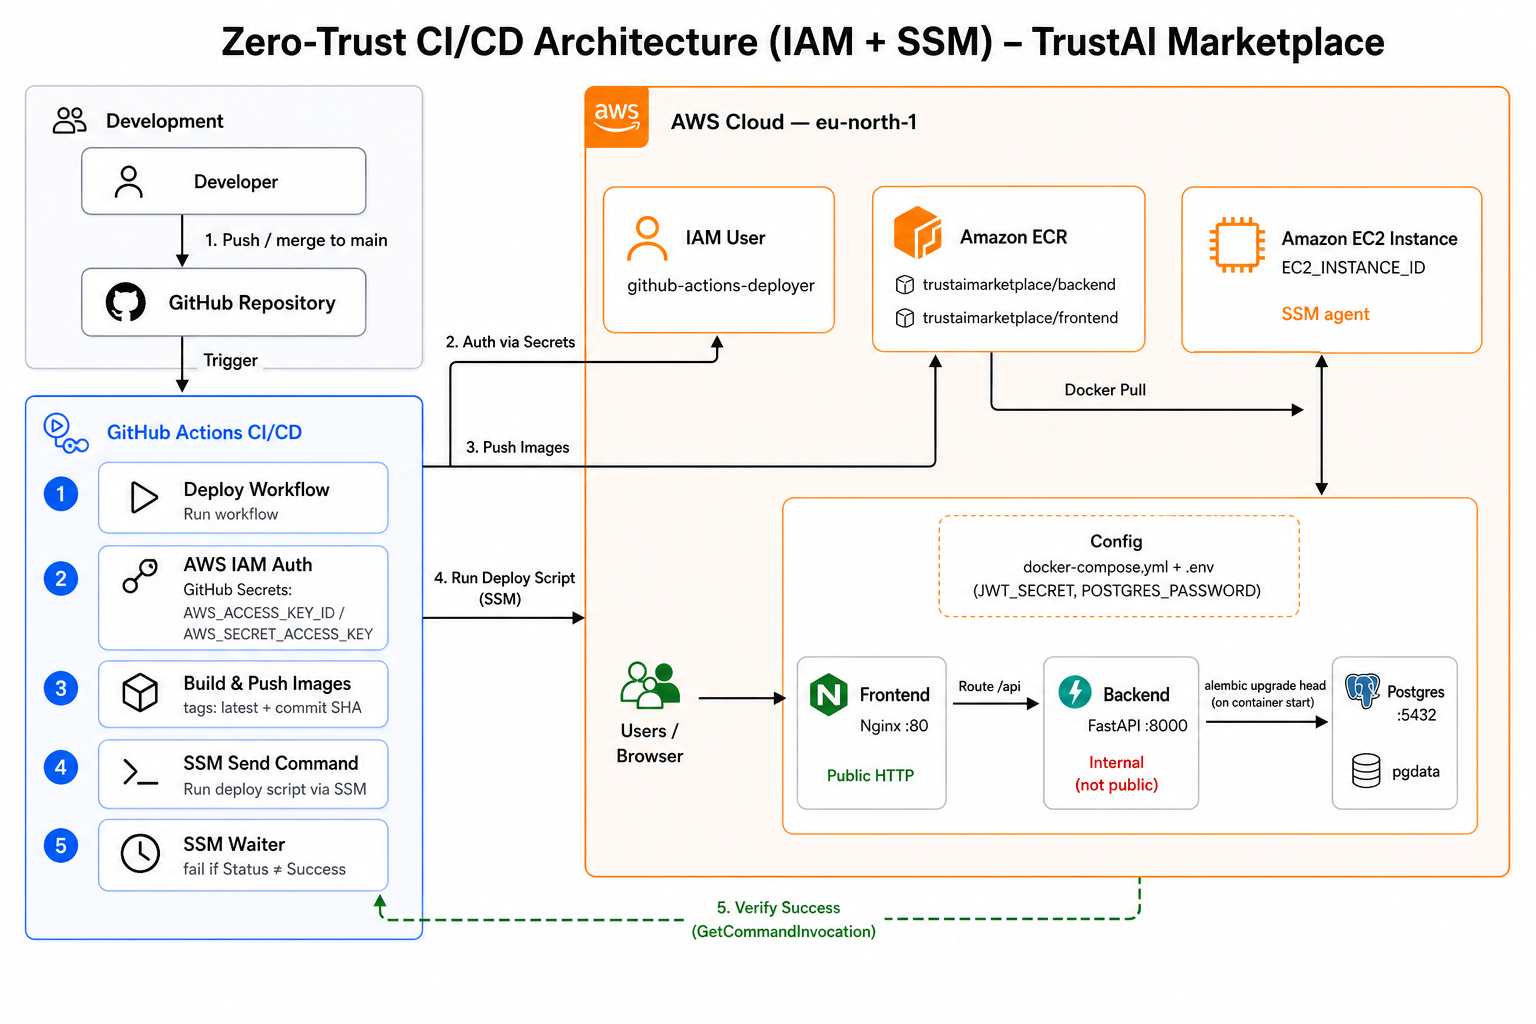
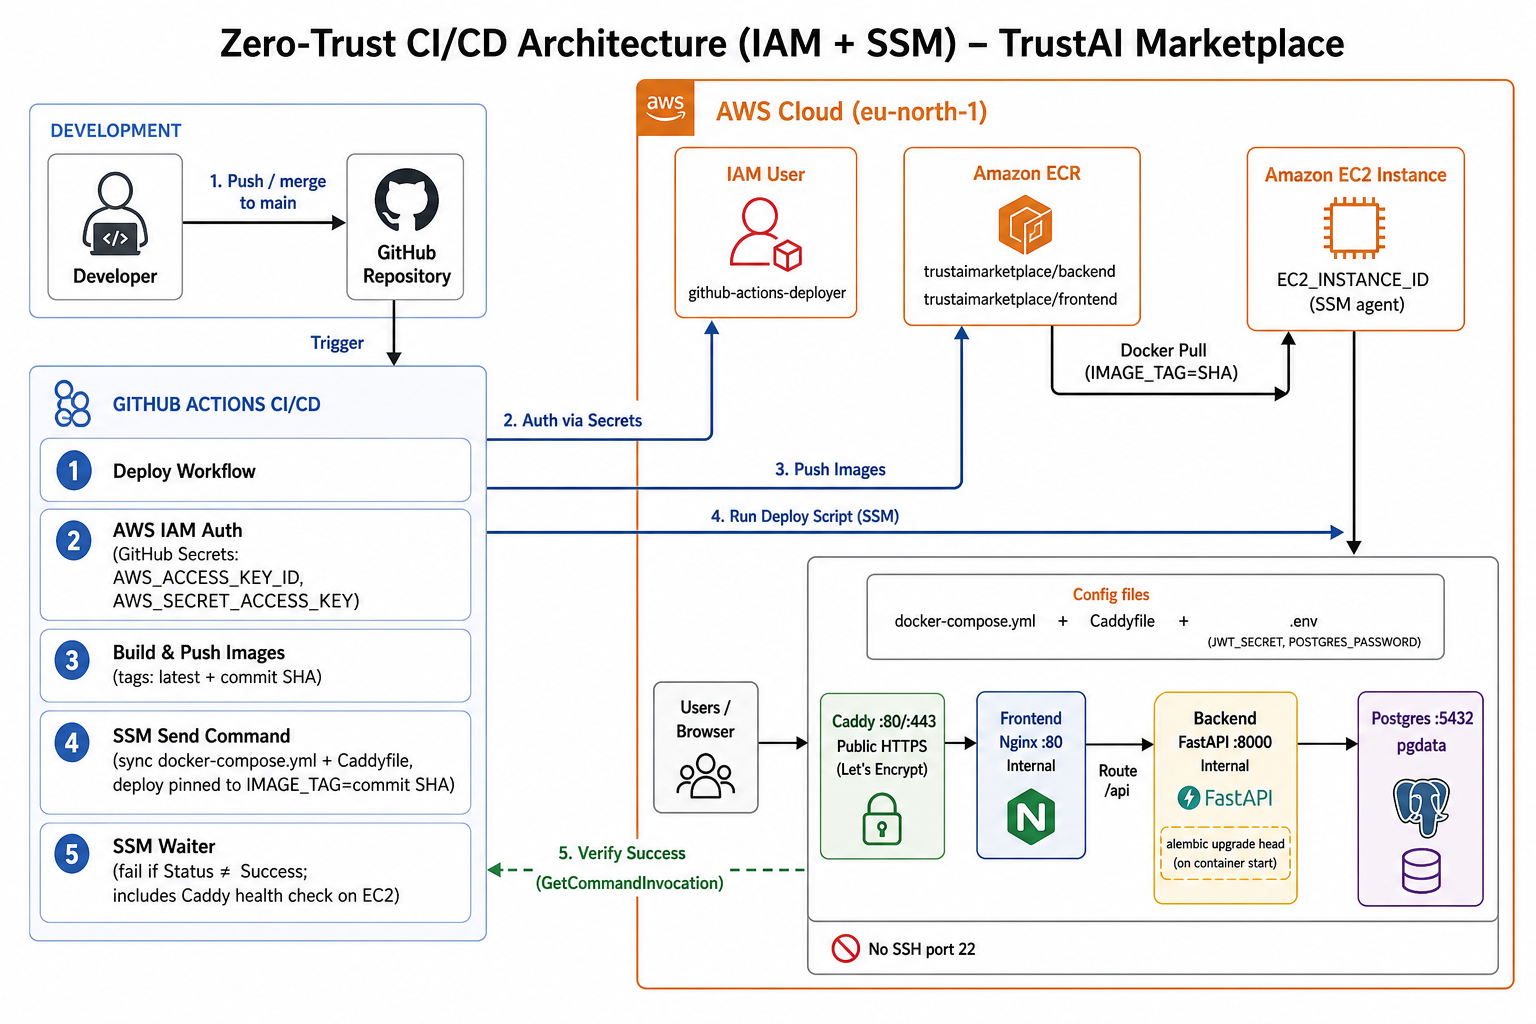
docs: refresh CI/CD architecture diagram and pipeline notes (#101)
Regenerate the zero-trust diagram for Caddy/HTTPS and SSM deploy flow, and align zero-trust-pipeline.md with current IMAGE_TAG pinning and health gates.

Changed region(s): [[0.0, 0.0, 1.0, 0.9688], [0.4062, 0.9375, 0.4375, 0.9688]]

diff --git a/docs/ci-cd/zero-trust-pipeline.md b/docs/ci-cd/zero-trust-pipeline.md
@@ -8,18 +8,13 @@ This document records the TrustAI Marketplace transition from direct SSH-based d
 |----------|----------|
 | Deploy workflow | `.github/workflows/deploy.yml` |
 | Postgres backup workflow (same SSM pattern, separate schedule) | `.github/workflows/backup.yml` |
-| EC2 production stack | `deploy/docker-compose.yml` |
+| EC2 production stack | `deploy/docker-compose.yml`, `deploy/Caddyfile` |
 | Operational runbook (ECR, `.env`, first-time setup, backups/restore) | `deploy/README.md` |
 | Migration-on-start decision | `docs/DESIGN_NOTES.md` (D-11) |
 
 ---
 
 ## End-to-end architecture
-
-> **Diagram is stale as of the Caddy/HTTPS change below.** It still shows nginx as the public
-> listener on :80. As of that change, **Caddy** is the public listener (ports 80 + 443,
-> automatic HTTPS) and reverse-proxies to nginx, which is now internal-only. The diagram needs
-> regenerating; the table below is corrected to match the current implementation.
 
 ![Zero-Trust CI/CD Architecture (IAM + SSM)](./trustai-cicd-architecture.png)
 
@@ -30,12 +25,13 @@ This document records the TrustAI Marketplace transition from direct SSH-based d
 | Element | Implementation |
 |---------|----------------|
 | Auth | IAM user `github-actions-deployer` via GitHub Secrets (not OIDC) |
-| Images | ECR repos `trustaimarketplace/backend` and `trustaimarketplace/frontend` (`:latest` + commit SHA) |
-| Deploy | SSM `send-command` to `EC2_INSTANCE_ID` (no SSH) |
-| Verification | SSM waiter + `GetCommandInvocation`; job fails unless status is `Success` |
-| Public surface | Caddy on **:80/:443** (automatic HTTPS, `deploy/Caddyfile`); nginx and FastAPI are internal-only |
-| Config on host | `docker-compose.yml` + `.env` (`JWT_SECRET`, `POSTGRES_PASSWORD`) |
+| Images | ECR repos `trustaimarketplace/backend` and `trustaimarketplace/frontend`; pushed as `:latest` and `:${GITHUB_SHA}`; **activated on EC2 by commit SHA** (`IMAGE_TAG`) |
+| Deploy | SSM `send-command` to `EC2_INSTANCE_ID` (no SSH); syncs `docker-compose.yml` + `Caddyfile` from the repo each run |
+| Verification | SSM waiter + `GetCommandInvocation`; remote script gates on **Caddy health** (`/api/health`) before success |
+| Public surface | **Caddy** on **:80/:443** (automatic HTTPS, `deploy/Caddyfile`); nginx and FastAPI are internal-only |
+| Config on host | `.env` (`JWT_SECRET`, `POSTGRES_PASSWORD`) is local-only; compose + Caddyfile are deployed from the repo |
 | Schema | `alembic upgrade head` on backend container start (D-11) |
+| Backups | Separate scheduled workflow `backup.yml` (SSM → `pg_dump` → S3); not shown on the diagram |
 
 ---
 
@@ -69,7 +65,8 @@ The workflow now deploys through **`aws ssm send-command`**:
        │
        └── aws ssm send-command ──► EC2 (SSM agent)
                 │
-                └── remote script: ECR login → docker compose pull → up -d
+                └── remote script: sync compose + Caddyfile → validate →
+                    ECR login → pull (IMAGE_TAG=SHA) → up -d → Caddy health check
 ```
 
 **Security outcomes**
@@ -141,7 +138,7 @@ The EC2 host must:
 
 1. Run the **SSM agent** (preinstalled on Amazon Linux / Ubuntu AMIs from AWS).
 2. Have an **instance IAM role** allowing ECR pull and any local AWS CLI calls used in the deploy script — including `s3:PutObject` on `BACKUP_S3_BUCKET` for `backup.yml`'s `pg_dump | gzip | aws s3 cp`. That command runs *on* the instance via SSM, so it authenticates as this role, not as `github-actions-deployer` — `backup.yml` needs no new GitHub-side IAM permission, only this instance-role addition.
-3. Have **`deploy/docker-compose.yml`** and a local **`.env`** at `EC2_APP_DIR` (secrets are never committed to the repository).
+3. Have a local **`.env`** at `EC2_APP_DIR` (`JWT_SECRET`, `POSTGRES_PASSWORD` — never committed). `docker-compose.yml` and `Caddyfile` are transferred from the repo on each deploy; a one-time manual copy is only needed before the first successful deploy.
 
 ---
 
@@ -163,22 +160,27 @@ Workflow file: `.github/workflows/deploy.yml`
 
 The **Deploy on EC2 via SSM** step:
 
-1. Calls `aws ssm send-command` with document **`AWS-RunShellScript`**.
-2. Runs a remote script on the instance:
+1. Base64-encodes the current `deploy/docker-compose.yml` and `deploy/Caddyfile` from the checked-out commit.
+2. Calls `aws ssm send-command` with document **`AWS-RunShellScript`**.
+3. Runs a remote script on the instance (simplified):
    ```bash
    set -e
    cd $EC2_APP_DIR
+   test -f .env
+   export IMAGE_TAG=$GITHUB_SHA
+   # Write docker-compose.yml.next + Caddyfile.next from the workflow payload
    docker compose -f docker-compose.yml.next config --quiet
-   docker image prune -af
+   docker image prune -af                    # pre-pull disk cleanup
    aws ecr get-login-password … | docker login …
    docker compose -f docker-compose.yml.next pull
+   docker run … caddy validate --config Caddyfile.next
+   mv docker-compose.yml.next docker-compose.yml
+   mv Caddyfile.next Caddyfile
    docker compose up -d
-   # After the application health check succeeds:
-   docker image prune -af
-   docker container prune -f
-   docker network prune -f
+   # Poll Caddy container health (GET /api/health via :8080) — fail if not healthy
+   docker image prune -af && docker container prune -f && docker network prune -f
    ```
-3. Captures the returned **`CommandId`**.
+4. Captures the returned **`CommandId`**.
 
 ### Phase 3 — Wait and fail closed
 
@@ -188,7 +190,7 @@ Because `send-command` only **queues** work, the workflow implements an explicit
 2. **`aws ssm get-command-invocation`** — emits stdout, stderr, and status to the Actions log.
 3. **Job failure** if the waiter exits non-zero or invocation `Status` is not **`Success`**.
 
-This prevents a green GitHub Actions run when `docker compose pull` or container restart fails on the server.
+This prevents a green GitHub Actions run when config validation, `docker compose pull`, container restart, or the Caddy health gate fails on the server.
 
 ---
 
@@ -232,6 +234,7 @@ After merging deploy changes or rotating secrets:
 | Date | Change |
 |------|--------|
 | 2026-08-12 | Initial documentation of SSH → SSM zero-trust deploy model. |
-| 2026-08-17 | Caddy added as the public HTTPS listener (ports 80/443), replacing nginx as the public surface — nginx and FastAPI are now internal-only. Deploy script also switched to commit-SHA-pinned images with config validation and a full health-check gate before success. Text corrected below; diagram still needs regenerating. |
+| 2026-08-17 | Caddy added as the public HTTPS listener (ports 80/443), replacing nginx as the public surface — nginx and FastAPI are now internal-only. Deploy script also switched to commit-SHA-pinned images with config validation and a full health-check gate before success. |
+| 2026-08-30 | Regenerated `trustai-cicd-architecture.png` to match Caddy/HTTPS, commit-SHA deploy pinning, compose/Caddyfile sync, and Caddy health gate. |
 | 2026-08-17 | Added `backup.yml`, a daily scheduled Postgres backup to S3 using the same SSM `send-command` pattern. `pgdata` survives normal redeploys already (no `down -v` in `deploy.yml`), but had no protection against instance replacement or disk failure. |
 | 2026-08-17 | Fixed `deploy.yml`'s cleanup step (`docker image prune -f` → `-af`, plus container/network prune; volumes remain excluded), run on every deploy — the old command only removed dangling images, never the uniquely SHA-tagged image each deploy leaves behind, so old images accumulated on the instance's disk indefinitely. A follow-up production repair added the same unused-image cleanup before pull so a full host can recover before downloading the next images. Added per-service log rotation limits in `deploy/docker-compose.yml` (D-18). |

diff --git a/docs/README.md b/docs/README.md
@@ -5,6 +5,7 @@ This directory contains the project documentation for the TrustAI Marketplace MS
 ## Structure
 
 - `architecture/` – system architecture, UML, data model, and deployment diagrams
+- `ci-cd/` – zero-trust deploy pipeline (SSM, ECR, EC2) and architecture diagram
 - `decisions/` – architecture decision records
 - `meeting-minutes/` – approved meeting records
 - `requirements/` – product vision, scope, user stories, and acceptance criteria
